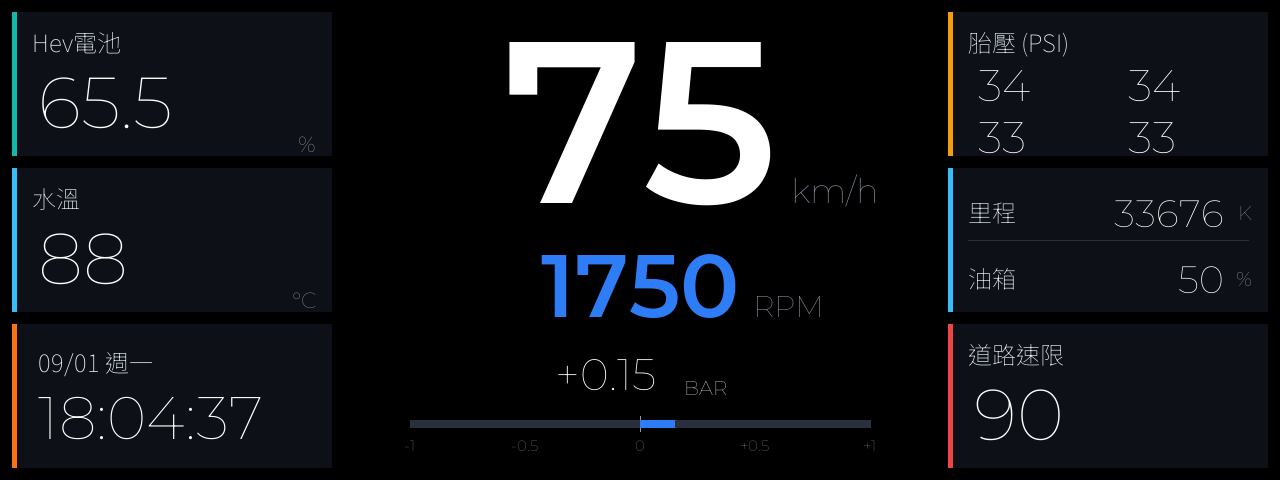
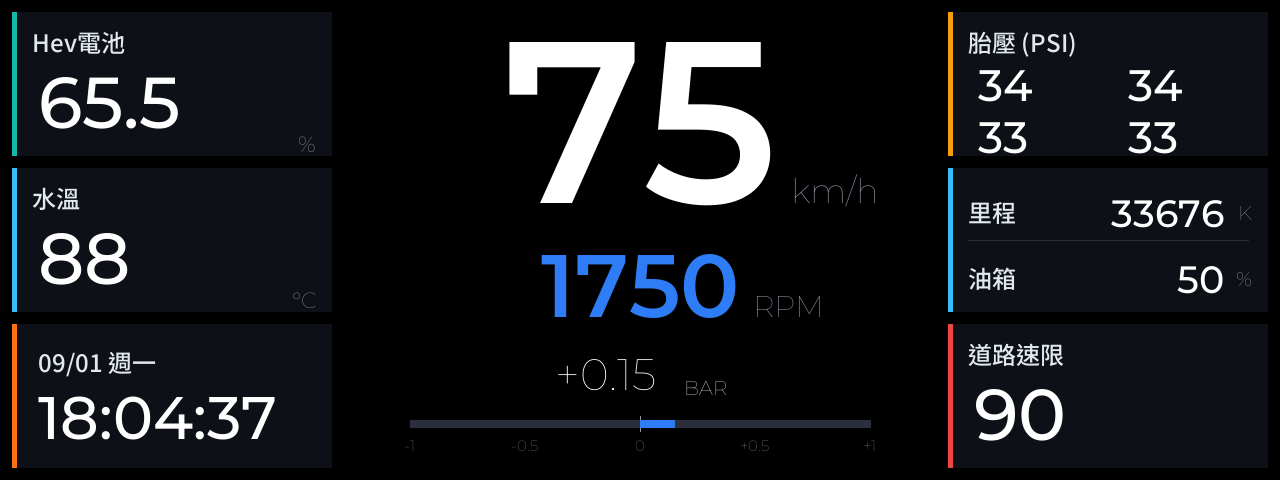
style: 卡片字體改用 Medium 字重
卡片的標籤與數值由 Regular 改為 Medium。Regular -> SemiBold 跨太多，
Medium (500) 才是「稍微加粗」：同樣 72px 下 "65.5" 的寬度
Regular 134 -> Medium 142 -> SemiBold 147。

形成三層字重層次：中央區 SemiBold（主角）> 卡片 Medium > 單位 Regular。

Montserrat 與 Noto Sans TC 的官方發布都是可變字型，取不到中間字重，
改以 fonttools varLib.instancer 由 wght=500 抽出靜態 Medium。
README 已補上產生指令與所需字型清單。

加粗後重新驗算過寬度：時鐘 "00:00:00" 268px（可用 278）、
Hev "100.0" 187px、里程六位數 "128450" 左緣 1092（標籤結束於 1046），
皆未超出。

diff --git a/esp32_display/dwin_dashboard/tools/gen_background.py b/esp32_display/dwin_dashboard/tools/gen_background.py
@@ -72,9 +72,11 @@ TURBO_BAR_X   = CX - TURBO_BAR_W // 2
 def f(name, size):
     return ImageFont.truetype(os.path.join(FONTS, name), size)
 
-F_TC     = lambda s: f("NotoSansTC.ttf", s)
-F_NUM    = lambda s: f("Montserrat.ttf", s)
-F_NUM_SB = lambda s: f("Montserrat-SemiBold.ttf", s)
+# 字重層次：中央區 SemiBold（主角）> 卡片 Medium > 單位 Regular
+F_TC     = lambda s: f("NotoSansTC-Medium.ttf", s)   # 卡片標籤
+F_NUM    = lambda s: f("Montserrat.ttf", s)          # 單位等次要文字
+F_NUM_MD = lambda s: f("Montserrat-Medium.ttf", s)   # 卡片數值
+F_NUM_SB = lambda s: f("Montserrat-SemiBold.ttf", s) # 中央區時速/轉速/增壓
 
 def tw(font, txt):
     b = font.getbbox(txt)
@@ -141,20 +143,20 @@ def draw_static(d):
 def draw_dynamic(d):
     """MCU 透過 VP 寫入、由螢幕疊上去的部分。僅供預覽。"""
     # 左欄
-    text(d, (LEFT_X + 26, ROW_Y[0] + 46), "65.5", F_NUM(72), TEXT)
-    text(d, (LEFT_X + 26, ROW_Y[1] + 46), "88",   F_NUM(72), TEXT)
+    text(d, (LEFT_X + 26, ROW_Y[0] + 46), "65.5", F_NUM_MD(72), TEXT)
+    text(d, (LEFT_X + 26, ROW_Y[1] + 46), "88",   F_NUM_MD(72), TEXT)
     text(d, (LEFT_X + 26, ROW_Y[2] + 20), "09/01 週一", F_TC(24), LABEL)
     # 60px 而非 64px：最寬的 "00:00:00" 在 64px 下是 276px，
     # 卡片可用寬度只有 278px，餘裕不足以吸收實機的字型渲染差異
-    text(d, (LEFT_X + 26, ROW_Y[2] + 56), "18:04:37", F_NUM(60), TEXT)
+    text(d, (LEFT_X + 26, ROW_Y[2] + 56), "18:04:37", F_NUM_MD(60), TEXT)
 
     # 右欄
     for i, v in enumerate(["34", "34", "33", "33"]):
         text(d, (RIGHT_X + 30 + (i % 2) * 150, ROW_Y[0] + 46 + (i // 2) * 52),
-             v, F_NUM(44), TEXT)
-    text(d, (RIGHT_X + COL_W - 44, ROW_Y[1] + 22), "33676", F_NUM(38), TEXT, "ra")
-    text(d, (RIGHT_X + COL_W - 44, ROW_Y[1] + 88), "50",    F_NUM(38), TEXT, "ra")
-    text(d, (RIGHT_X + 26, ROW_Y[2] + 46), "90", F_NUM(72), TEXT)
+             v, F_NUM_MD(44), TEXT)
+    text(d, (RIGHT_X + COL_W - 44, ROW_Y[1] + 22), "33676", F_NUM_MD(38), TEXT, "ra")
+    text(d, (RIGHT_X + COL_W - 44, ROW_Y[1] + 88), "50",    F_NUM_MD(38), TEXT, "ra")
+    text(d, (RIGHT_X + 26, ROW_Y[2] + 46), "90", F_NUM_MD(72), TEXT)
 
     # 中央：時速 → 轉速 → 增壓
     text(d, (SPEED_RIGHT, SPEED_BASE), NOMINAL_SPEED, F_NUM_SB(230), TEXT, "rs")

diff --git a/esp32_display/dwin_dashboard/README.md b/esp32_display/dwin_dashboard/README.md
@@ -21,9 +21,22 @@ python3 tools/gen_background.py <字型資料夾>
 #     assets/preview.png（疊上範例數值，僅供評估版面）
 ```
 
-字型只有產生 PNG 時需要（Montserrat / Noto Sans TC），**螢幕端不需要任何
-字型檔**：中文全是靜態的已畫進背景，動態值全是數字，用螢幕內建的 0# ASCII
-字型即可。
+字型只有產生 PNG 時需要，**螢幕端不需要任何字型檔**：中文全是靜態的
+已畫進背景，動態值全是數字，用螢幕內建的 0# ASCII 字型即可。
+
+字重層次：**中央區 SemiBold**（主角）> **卡片 Medium** > **單位 Regular**。
+
+Montserrat 與 Noto Sans TC 的官方發布是可變字型，取不到中間字重，
+需以 fonttools 抽出 Medium：
+
+```bash
+pip install fonttools brotli
+python3 -m fontTools.varLib.instancer Montserrat.ttf   wght=500 -o Montserrat-Medium.ttf
+python3 -m fontTools.varLib.instancer NotoSansTC.ttf   wght=500 -o NotoSansTC-Medium.ttf
+```
+
+所需字型檔：`Montserrat.ttf`、`Montserrat-Medium.ttf`、
+`Montserrat-SemiBold.ttf`、`NotoSansTC-Medium.ttf`。
 
 ## 目前的分工預期
 
